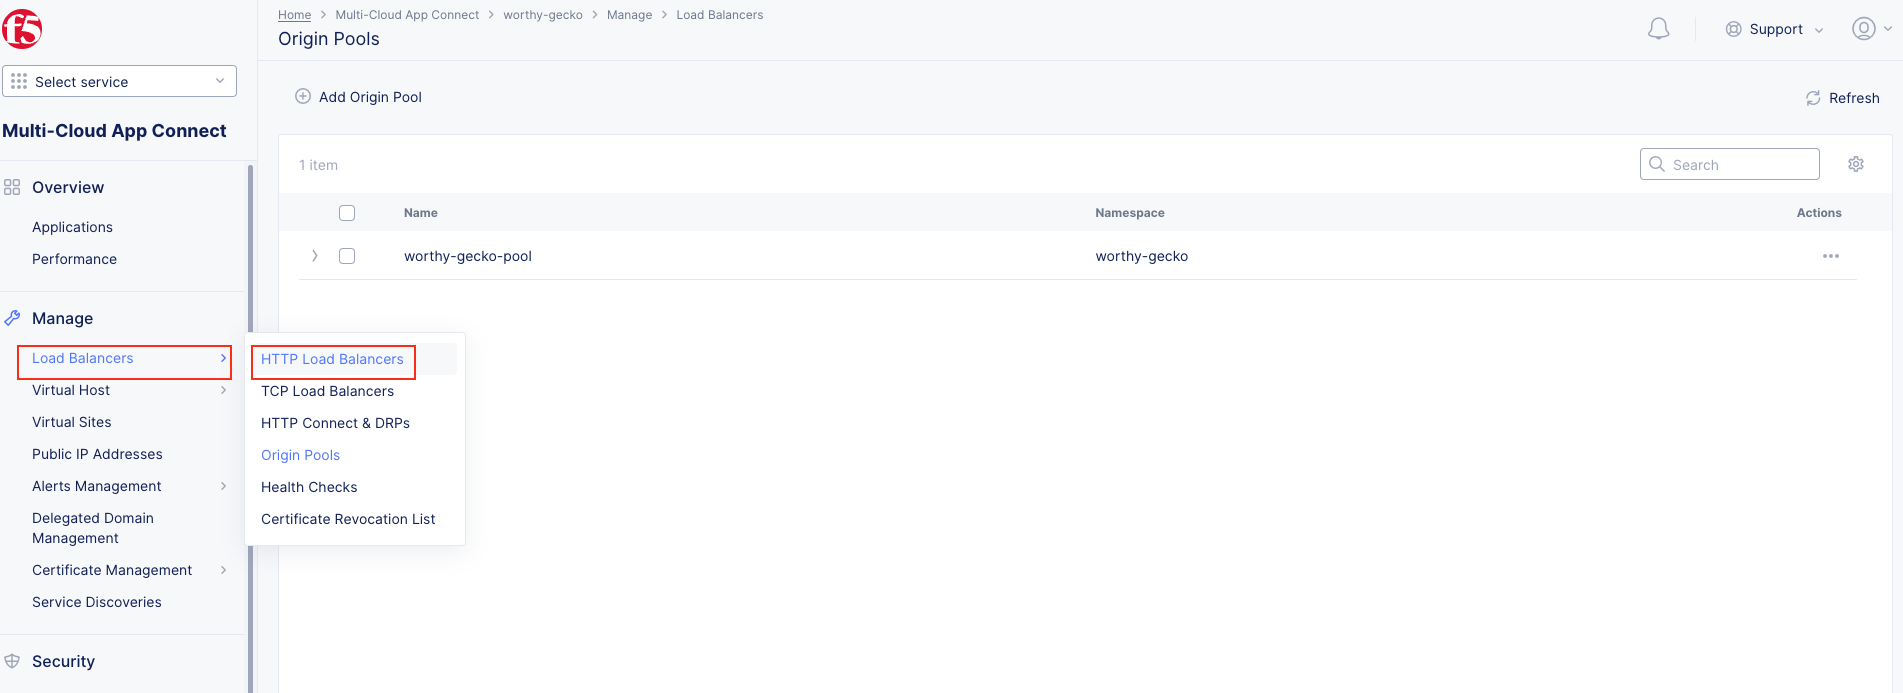
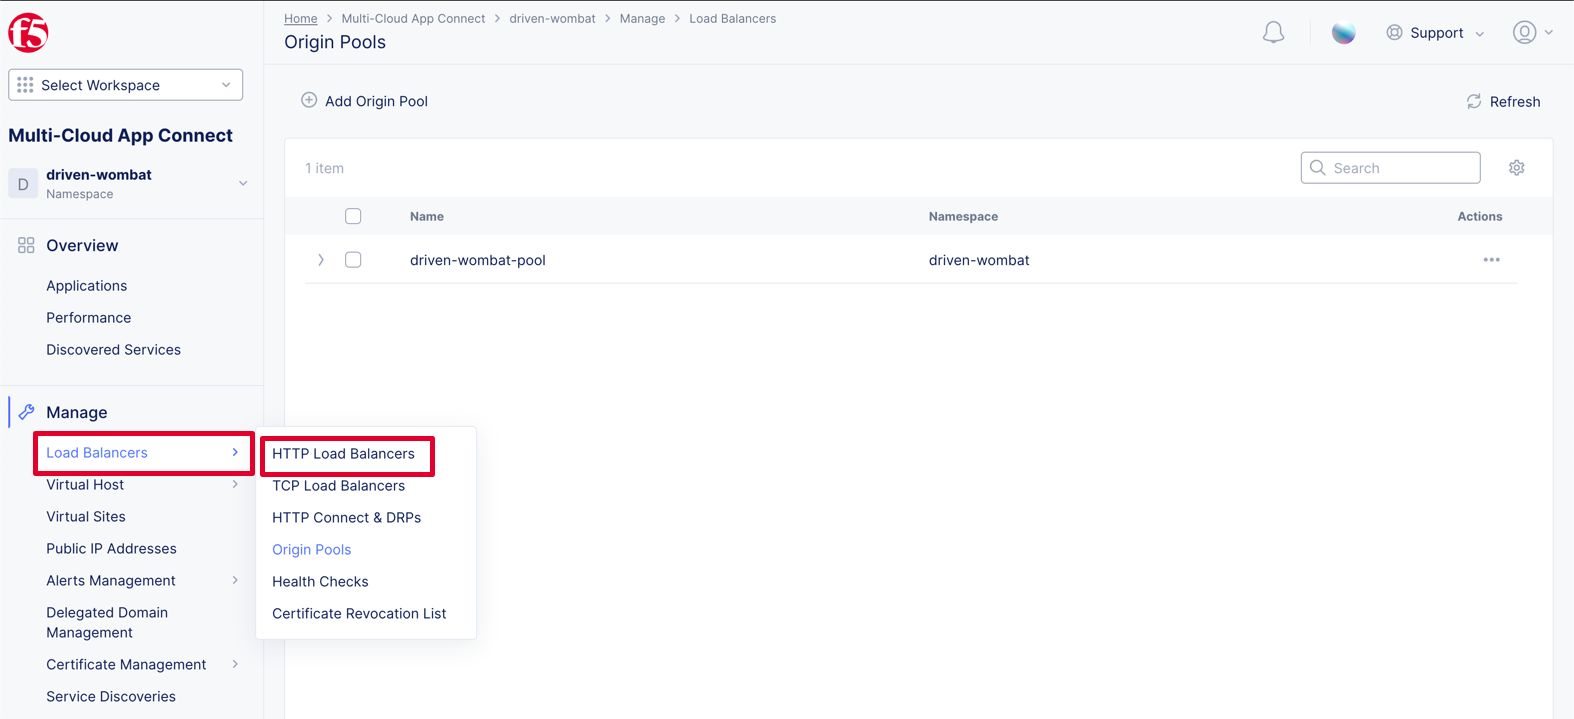
Class 1 intro and lab 1 - Adjust to include mention of namespace. Newer dashboard images

diff --git a/docs/class1/intro.rst b/docs/class1/intro.rst
@@ -138,10 +138,52 @@ Accessing F5 Distributed Cloud
 +----------------------------------------------------------------------------------------------+
 
 +----------------------------------------------------------------------------------------------+
-| Attendees will now be presented the Home page of the F% Distributed Cloud Console with all   |
+| Attendees will now be presented the Home page of the F5 Distributed Cloud Console with all   |
 | the workspaces, features and services available.                                             |
 +----------------------------------------------------------------------------------------------+
 | |intro015|                                                                                   |
++----------------------------------------------------------------------------------------------+
+
++----------------------------------------------------------------------------------------------+
+| You can adjust your work domains and skill level (not required) by clicking on the           |
+| **Account** icon in the top right of the screen and then clicking on **Account Settings**.   |
+|                                                                                              |
+| In the resulting window you can observe the **Work domains and skill level** section and     |
+| other administrative functions.                                                              |
+|                                                                                              |
+| .. note::                                                                                    |
+|    *For the purposes of this lab, permissions have been restricted to lab operations.  As*   |
+|    *some menus will be locked and not visible.*                                              |
++----------------------------------------------------------------------------------------------+
+| |intro050|                                                                                   |
+|                                                                                              |
+| |intro051|                                                                                   |
++----------------------------------------------------------------------------------------------+
+
++----------------------------------------------------------------------------------------------+
+| Namespaces, which provide an environment for isolating configured applications or            |
+| enforcing role-based access controls, are leveraged within the F5 Distributed Cloud          |
+| Console.  For the purposes of this lab, each lab attendee has been provided a unique         |
+| **namespace** which you should be defaulted to (in terms of GUI navigation) for all tasks    |
+| performed through the course of this lab.                                                    |
+|                                                                                              |
+| Click on the **Select Workspace** in the left-hand navigation. In the resulting fly out      |
+| navigation, click **Web App & API Protection**.                                              |
+|                                                                                              |
+| In the **Web App & API Protection** workspace screen observe the URL. In the lefthand        |
+| menu, confirm that your unique namespace is selected, if not, choose it, and then look       |
+| at the URL path, locate the **<adjective-animal>** namespace that you have been              |
+| assigned. It will be located in the portion of the URL path between */namespaces/* and       |
+| */overview/* as shown in this example **…/namespaces/<your-namespace>/overview/…**. Note     |
+| this namespace as it will be used throughout the lab tasks that follow.                      |
+|                                                                                              |
+| .. note::                                                                                    |
+|    *Administratively, there are other ways to find namespaces. Due to access and permission* |
+|    *restrictions for this particular lab, those menus are not available.*                    |
++----------------------------------------------------------------------------------------------+
+| |intro052|                                                                                   |
+|                                                                                              |
+| |intro053|                                                                                   |
 +----------------------------------------------------------------------------------------------+
 
 +----------------------------------------------------------------------------------------------+
@@ -179,6 +221,14 @@ Accessing F5 Distributed Cloud
 .. |intro014| image:: _static/intro-14.png
    :width: 800px
 .. |intro015| image:: _static/intro-15.png
+   :width: 800px
+.. |intro050| image:: _static/intro-50.png
+   :width: 800px
+.. |intro051| image:: _static/intro-51.png
+   :width: 800px
+.. |intro052| image:: _static/intro-52.png
+   :width: 800px
+.. |intro053| image:: _static/intro-53.png
    :width: 800px
 .. |labbgn| image:: _static/labbgn.png
    :width: 800px
